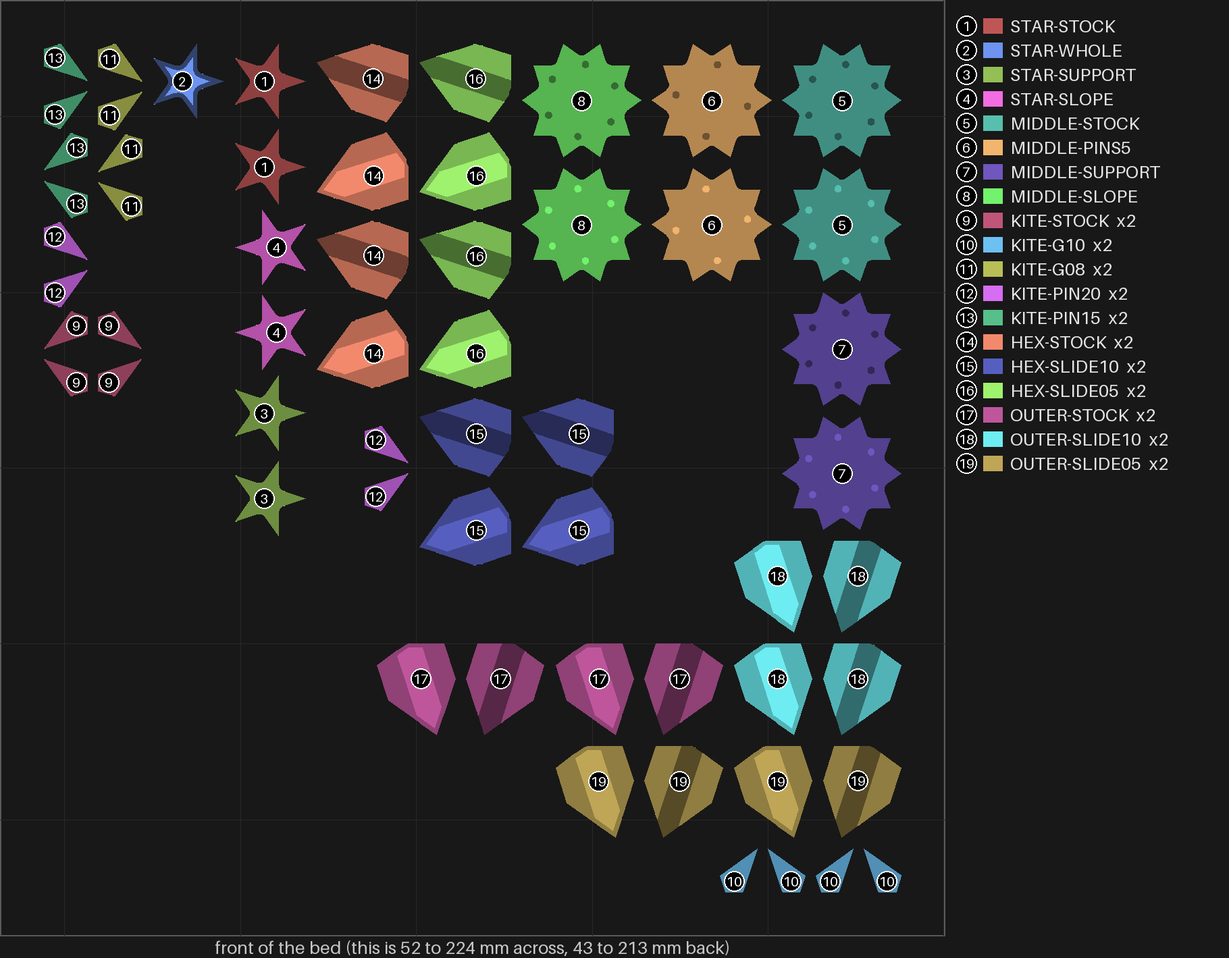
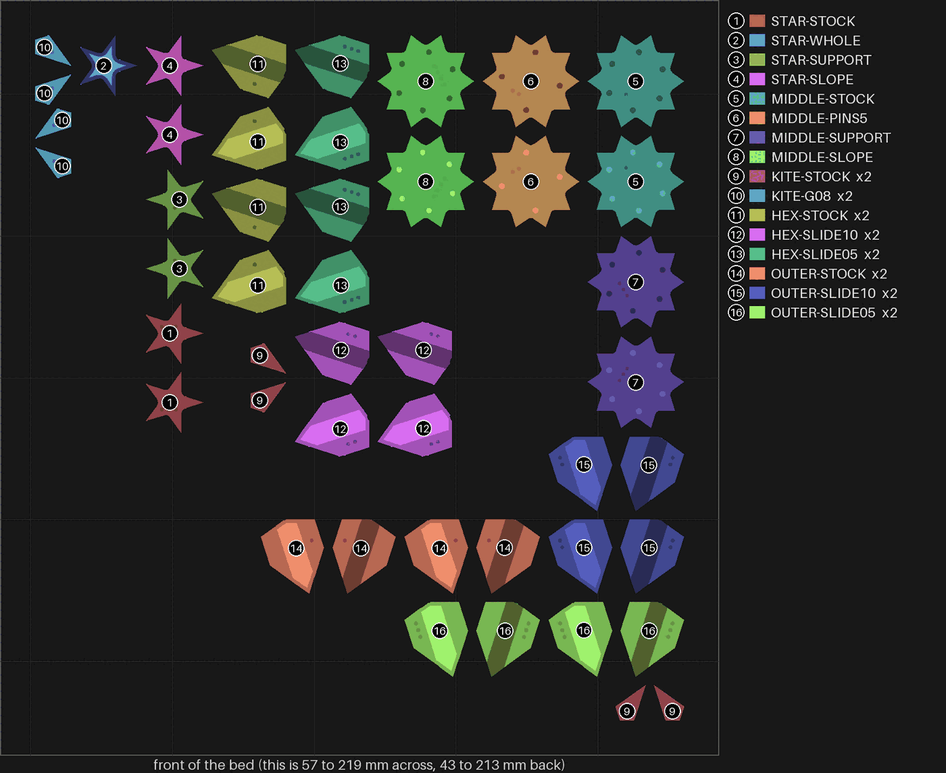
split-10 v4: dots on every cut face, so each version can be told apart
Omar: "i don't want to test anythign unitl we repreint with lavles". Each
cut piece now carries dots on its halves' cut face, the face that hides once
the halves close (bikar #351, D-114). Within a kind each version has its own
count. The gap 0.10 kite and the two narrower pin holes are dropped to the
coaster-pipeline backlog. 24 pieces, about 61 minutes, 15 g. The recipe
change resets the yes (iteration 4), so the reprint waits on Omar's yes and
a color.

Claude-Session: https://claude.ai/code/session_01WeTHrCWsKa9pjDBJpfTez7

diff --git a/docs/design/plates/split-10.md b/docs/design/plates/split-10.md
@@ -2,8 +2,8 @@
 plate: split-10
 print_log: '[[print-logs/split-10|print log]]'
 recipe: split-10.yaml
-iteration: 3
-stage: sent
+iteration: 4
+stage: waiting
 times_printed: 0
 runs: []
 answers: "Which change fixes each loose piece split-07 got wrong: the stars' curved faces, the middle's webbed feel, the loose kites and the dovetail fit?"
@@ -12,7 +12,7 @@ maturity: experiment
 bets: []
 unblocks:
   - "the flange coaster's loose pieces, settled before a whole coaster is printed again"
-minutes: 55
+minutes: 61
 grams: 15
 bed_plates: 1
 risk: ok
@@ -20,21 +20,24 @@ pictures:
   - split-10-media/bed.png
 ---
 
-# split-10 — the flange coaster's loose pieces, each fit bracketed, two of each
+# split-10 — the flange coaster's loose pieces, each fit bracketed, dots on every hidden face
 
-![split-10 on the bed from above: 30 loose pieces in 19 kinds, each half numbered by its kind, with the list of kinds beside the bed — four stars, four ten-point middle pieces, ten kites, six hexagon pieces and six outer pieces](split-10-media/bed.png)
+![split-10 on the bed from above: 24 loose pieces in 16 kinds, each half numbered by its kind, with the list of kinds beside the bed — four stars, four ten-point middle pieces, four kites, six hexagon pieces and six outer pieces](split-10-media/bed.png)
 
 **In short.** split-07's frame came out well, but you found four things wrong with its loose
 pieces: the stars' faces curve at the edges, the middle piece has a "webbed duck feel", the
 "dovetail kites are really loose", and you want to experiment on them. This bed is those pieces
-only, no frame, about 55 minutes. You asked for as much testing as one print can hold
+only, no frame, about 61 minutes. You asked for as much testing as one print can hold
 ("Everything, slope included"), so each kind has a stock piece, exactly as split-07 printed it,
 and each fit is tried on both sides of stock: a little looser and a little tighter. The fit
 pieces come two of each, so a result counts only when both copies agree. The stars and the middle
 also try a new slope under the step each half prints over (bikar #349). You try everything in
 the split-07 frame you already have. Every middle piece now holds its halves with a pin in the
 centre and an even ring of pins near the edge, as you asked, not split-07's three uneven pins.
-The plate is [`split-10.yaml`](split-10.yaml).
+This reprint adds what the first print lacked: dots on each half's cut face, the face that
+hides once the halves close, so every version can be told apart by counting them (you: "i
+don't want to test anythign unitl we repreint with lavles"). The kites are cut to two
+versions to make room. The plate is [`split-10.yaml`](split-10.yaml).
 
 ## What it tries
 
@@ -46,8 +49,7 @@ The plate is [`split-10.yaml`](split-10.yaml).
 | Ten-point middle | MIDDLE-STOCK | **MIDDLE-SUPPORT**: supports under the same step | Whether the webbed feel is the same droop |
 | | | **MIDDLE-SLOPE**: the slope under the step | The same, fixed in the shape |
 | | | **MIDDLE-PINS5**: a centre pin and four round it, where every other middle has a centre pin and six | Whether four pins round the centre hold as well as six |
-| Kite, two of each | KITE-STOCK (0.12 mm gap a face, pin hole 0.25 mm wider than the pin) | **KITE-G10**, **KITE-G08**: gap 0.10 and 0.08 mm | How snug a kite can sit in its hole and still go in |
-| | | **KITE-PIN20**, **KITE-PIN15**: pin hole 0.20 and 0.15 mm wider | How tight the two halves can hold and still close |
+| Kite, two of each | KITE-STOCK (0.12 mm gap a face) | **KITE-G08**: gap 0.08 mm | How snug a kite can sit in its hole and still go in |
 | Hexagon piece, two of each | HEX-STOCK (dovetail 0.15 mm a side) | **HEX-SLIDE10**, **HEX-SLIDE05**: 0.10 and 0.05 mm a side | How tight the dovetail can be and still slide on |
 | Outer piece, two of each | OUTER-STOCK (dovetail 0.15 mm a side) | **OUTER-SLIDE10**, **OUTER-SLIDE05**: 0.10 and 0.05 mm a side | The same, on the other piece that has one |
 
@@ -63,11 +65,20 @@ middle are the only pieces that try it.
 **"Dovetail kites".** The kites are joined by a pin, and the hexagon and outer pieces by the
 dovetail. Both are on this bed, so the answers below settle which you meant.
 
-**Telling the pieces apart.** No piece carries a label: both faces of a cut piece show in use,
-and an id may only go on a face that hides (D-114). In the picture above every half carries its
-kind's number, and the list beside the bed gives each number's name and how many copies there
-are. Take them off the bed one kind at a time, and keep each kind in its own pile or bag with
-its name.
+**Telling the pieces apart.** Open each piece's halves and count the raised dots on the cut
+face. That face hides once the halves close, so the dots never show in use (D-114). Within a
+kind, each version has its own count:
+
+| Kind | No dots | 1 dot | 2 dots | 3 dots | 4 dots |
+|---|---|---|---|---|---|
+| Star | STAR-WHOLE (one piece, no cut face) | STAR-SUPPORT | STAR-SLOPE | STAR-STOCK | |
+| Middle | | MIDDLE-STOCK | MIDDLE-PINS5 | MIDDLE-SUPPORT | MIDDLE-SLOPE |
+| Kite | KITE-STOCK | KITE-G08 | | | |
+| Hexagon | | HEX-STOCK | HEX-SLIDE10 | HEX-SLIDE05 | |
+| Outer | | OUTER-STOCK | OUTER-SLIDE10 | OUTER-SLIDE05 | |
+
+The kinds differ in shape, so the count only has to tell versions of one kind apart. The
+picture above numbers every half by its kind as well.
 
 Every piece is split-07's in everything that touches the frame: size, pin rings, the 0.2 mm room,
 setting 8 (infill and wall overlap 55%). Only the one setting named above changes.
@@ -79,19 +90,19 @@ setting 8 (infill and wall overlap 55%). Only the one setting named above change
 | STAR-STOCK, STAR-WHOLE, STAR-SUPPORT, STAR-SLOPE | **Do:** Close each cut star's two halves, then lay the four stars face up side by side and look at each from the side, along a point. **Look for:** Which star's face is flat out to its points, with no curve at the edges? | STAR-SLOPE or STAR-SUPPORT flattest: each puts something under the step that sagged. STAR-WHOLE shows whether the cut itself made the curve. | Slope best: stars print with the slope, nothing to pick off. Support best and slope not: stars print with supports, and the slope gets another look. Whole best: the cut caused it, and stars print whole. All four curve: the cause is something else; say what you see in the notes. |
 | MIDDLE-STOCK, MIDDLE-SUPPORT, MIDDLE-SLOPE | **Do:** Close each middle piece's halves and run a finger round its edge, then set each in the split-07 frame's middle hole. **Look for:** Does MIDDLE-SLOPE or MIDDLE-SUPPORT lose the webbed feel MIDDLE-STOCK has? Say in the notes what "webbed duck feel" means. | MIDDLE-SLOPE and MIDDLE-SUPPORT smoother at the edge, if the webbed feel is the same sag as the stars'. | Slope fixes it: the middle prints with the slope. Only support fixes it: the middle prints with supports. Neither: the feel is something else, and your note says what to change. |
 | MIDDLE-STOCK, MIDDLE-PINS5 | **Do:** Close each of the two middle pieces' halves on their pins, then pull them apart and twist them. **Look for:** Do both close flat and hold without rocking? MIDDLE-STOCK has a centre pin and six round it, MIDDLE-PINS5 a centre pin and four. | Both close and hold: each pin keeps at least the room the rule asks for to the edge, and the ring is even, so no side is left without a pin as split-07's three uneven pins left it. | Both hold: middles take four round the centre, fewer holes to print. Only six holds: middles take six. Neither holds: the pins need another fit, and your note says which way. |
-| KITE-STOCK, KITE-G10, KITE-G08 | **Do:** Put each of the six kites in a kite hole of the split-07 frame, close the frame and shake it gently. **Look for:** Which kites go in without forcing and do not rattle? Both copies should agree. | KITE-G10 snug and still easy in; KITE-G08 snug but may need a push. | 0.10 snug: kites go to gap 0.10. Only 0.08 snug: kites go to gap 0.08. 0.08 still rattles: the next plate tries below 0.08. 0.10 already binds: kites stay at 0.12, and the looseness is in the pin. |
-| KITE-STOCK, KITE-PIN20, KITE-PIN15 | **Do:** Close each kite's two halves on its pin, then pull them apart. **Look for:** Which kites' halves close fully and hold together? Both copies should agree. | KITE-PIN20 holds better than stock and closes easily; KITE-PIN15 holds best but may not close all the way. | 0.20 holds: pin holes go to 0.20 wider. Only 0.15 holds: they go to 0.15. 0.15 will not close: no tighter than 0.20. None hold: the halves need another way to hold. |
+| KITE-STOCK (no dots), KITE-G08 (1 dot) | **Do:** Put each of the four kites in a kite hole of the split-07 frame, close the frame and shake it gently. **Look for:** Which kites go in without forcing and do not rattle? Both copies should agree. | KITE-G08 snug but may need a push; KITE-STOCK loose, as split-07's were. | 0.08 snug and goes in: kites go to gap 0.08. 0.08 still rattles: the next plate tries below 0.08. 0.08 binds: the next plate tries between 0.08 and 0.12. |
 | HEX-STOCK, HEX-SLIDE10, HEX-SLIDE05, OUTER-STOCK, OUTER-SLIDE10, OUTER-SLIDE05 | **Do:** Slide each piece's two halves together on their dovetail, then try to wiggle them apart. **Look for:** Which slide on without forcing and hold without play? Both copies should agree. | The 0.10 mm ones hold tighter and still slide on: sld-1's rails slid and held at 0.10, 0.15 and 0.20. The 0.05 mm ones may jam. | 0.10 best: dovetails go to 0.10 a side. 0.05 slides and holds best: they go to 0.05. Even 0.05 has play: the dovetail itself needs to change. 0.10 already jams: they stay at 0.15. |
 
 ## Pictures
 
-The bed, from above, as the slice lays it out: one number and color per kind, the number on
-every half, and the list of kinds beside it. Drawn from the sliced plate by
+The bed, from above, as the reprint's slice lays it out: one number and color per kind, the
+number on every half, and the list of kinds beside it. The small round marks on the halves are
+the pins, pin holes and dots on each cut face. Drawn from the sliced plate by
 `tools/print_review.py bed --zoom --key`, at the top of this page.
 
 ## Cost and risk
 
-**About 55 minutes and 15 g of PLA** (the slicer's estimate), one bed, no prime tower, one color.
+**About 61 minutes and 15 g of PLA** (the slicer's estimate), one bed, no prime tower, one color.
 
 **Risk: ok.** Small flat pieces. The two support pieces carry two thin layers of support to pick
 off. The slice check read the supports back on those two pieces only.
@@ -119,3 +130,4 @@ Every yes or hold Omar gives this plate, one row each, oldest first (D-096). A t
 | 2026-10-27 | changed: on Omar's "does this maximize the testing we can do to reduce prints?" and his pick, "Everything, slope included": each fit bracketed both ways, two of each fit piece, a sloped star and middle (bikar #349); 29 pieces, about 54 minutes | this page, [`split-10.yaml`](split-10.yaml) |
 | 2026-10-27 | changed: on Omar's "the middle peice had 3 asymetric pins ... should have been 1 in middel and 4 or 6 radially around the middle near the edges with enough room": every middle takes a centre pin and six round it, and MIDDLE-PINS5 a centre pin and four (bikar #350); 30 pieces, about 55 minutes | this page, [`split-10.yaml`](split-10.yaml) |
 | 2026-10-27 | sent — by `bambu print send`; spends the approval of 2026-10-27, iteration 3 @ d67cb942f8 in #00AE42 | this page |
+| 2026-10-27 | changed: on Omar's "i don't want to test anythign unitl we repreint with lavles": dots on every cut face (bikar #351), counted per version; KITE-G10, KITE-PIN20 and KITE-PIN15 dropped to the loose-pieces backlog; 24 pieces, about 61 minutes. The first print stays unjudged | this page, [`split-10.yaml`](split-10.yaml) |

diff --git a/docs/design/plates/README.md b/docs/design/plates/README.md
@@ -26,33 +26,34 @@ Written by `python3 .claude/gates/plates_gate.py --write` from the plate pages a
 | 4 | [theme-iznik-tile-10205](theme-iznik-tile-10205.md) | waiting | 1 | 0.3 | 3.92 | ok | Iznik tile, one of its 4 plates: do its Middle ×1, Star ×10 come out as the theme draws them, in PLA Basic Maroon Red (10205)? |
 | 5 | [theme-night-sky-13402](theme-night-sky-13402.md) | waiting | 1 | 0.3 | 3.92 | ok | Night sky, one of its 4 plates: do its Middle ×1, Star ×10 come out as the theme draws them, in PLA Sparkle Classic Gold Sparkle (13402)? |
 | 6 | [theme-terracotta-souk-10401](theme-terracotta-souk-10401.md) | waiting | 1 | 0.3 | 3.92 | ok | Terracotta souk, one of its 4 plates: do its Middle ×1, Star ×10 come out as the theme draws them, in PLA Basic Gold (10401)? |
-| 7 | [theme-iznik-tile-10604](theme-iznik-tile-10604.md) | waiting | 1 | 0.3 | 3.42 | ok | Iznik tile, one of its 4 plates: do its Hex ×10 come out as the theme draws them, in PLA Basic Cobalt Blue (10604)? |
-| 8 | [theme-terracotta-souk-11401](theme-terracotta-souk-11401.md) | waiting | 1 | 0.3 | 3.39 | ok | Terracotta souk, one of its 4 plates: do its Outer ×10 come out as the theme draws them, in PLA Matte Desert Tan (11401)? |
-| 9 | [split-01](split-01.md) | waiting | 6 | 1.8 | 3.36 | watch | Does a split gBV coaster close over its loose pieces and hold them by a lip on each face, with the pieces dropped in at a loose gap and the halves lined up by studs? |
-| 10 | [theme-iznik-tile-10605](theme-iznik-tile-10605.md) | waiting | 1 | 0.3 | 2.87 | ok | Iznik tile, one of its 4 plates: do its Kite ×10, Outer ×10 come out as the theme draws them, in PLA Basic Turquoise (10605)? |
-| 11 | [theme-terracotta-souk-11203](theme-terracotta-souk-11203.md) | waiting | 1 | 0.4 | 2.84 | ok | Terracotta souk, one of its 4 plates: do its Kite ×10, Hex ×10 come out as the theme draws them, in PLA Matte Terracotta (11203)? |
-| 12 | [swatch-10204](swatch-10204.md) | waiting | 1 | 0.4 | 2.82 | ok | What does PLA Basic Hot Pink (10204) really look like printed: its top, its sheen and its bed face, on a chip and on our own straps? |
-| 13 | [swatch-10501](swatch-10501.md) | waiting | 1 | 0.4 | 2.82 | ok | What does PLA Basic Bambu Green (10501) really look like printed: its top, its sheen and its bed face, on a chip and on our own straps? |
-| 14 | [swatch-10101](swatch-10101.md) | waiting | 1 | 0.4 | 2.82 | ok | What does PLA Basic Black (10101) really look like printed: its top, its sheen and its bed face, on a chip and on our own straps? |
-| 15 | [swatch-13903](swatch-13903.md) | waiting | 1 | 0.4 | 2.68 | ok | What does PLA Silk Neon City (13903) really look like printed: its top, its sheen and its bed face, on a chip and on our own straps? |
-| 16 | [sheets-01](sheets-01.md) | waiting | 6 | 2.3 | 2.65 | ok | Do the 0.4 mm steps on today's coaster edges show in the hand, and which top (round 1 or the full dome) looks right? |
-| 17 | [minis-06](minis-06.md) | waiting | 8 | 3.8 | 2.11 | ok | How thin can the dovetail band go, and does the new slot fix minis-04's tight pegs? |
-| 18 | [theme-night-sky-11602](theme-night-sky-11602.md) | waiting | 1 | 0.5 | 2.04 | ok | Night sky, one of its 4 plates: do its Hex ×10, Outer ×10 come out as the theme draws them, in PLA Matte Dark Blue (11602)? |
-| 19 | [minis-05](minis-05.md) | waiting | 10 | 5.8 | 1.72 | watch | Which thin join holds a pair together best, the butterfly key or the built-in tab? |
-| 20 | [split-09](split-09.md) | waiting | 4 | 2.6 | 1.51 | ok | Do split-07's two coaster halves, printed two of each to a bed with no loose pieces, come out as clean as they did on split-07, so this layout can be the production plate? |
-| 21 | [theme-midnight-blue-13903](theme-midnight-blue-13903.md) | waiting | 1 | 0.7 | 1.39 | ok | Midnight blue, one of its 2 plates: do its Middle ×1, Kite ×10, Hex ×10, Star ×10, Outer ×10 come out as the theme draws them, in PLA Silk Neon City (13903)? |
-| 22 | [sheets-02](sheets-02.md) | waiting | 3 | 2.7 | 1.11 | ok | Should star points stay sharp or be softened, and by how much? |
-| 23 | [sheets-03](sheets-03.md) | waiting | 3 | 2.7 | 1.11 | ok | How much soft weld at the crossings looks right: none, light or strong? |
-| 24 | [theme-iznik-tile-10100](theme-iznik-tile-10100.md) | waiting | 1 | 1.1 | 0.90 | ok | Iznik tile, one of its 4 plates: does its frame ×1 come out as the theme draws it, in PLA Basic Jade White (10100)? |
-| 25 | [theme-midnight-blue-10101](theme-midnight-blue-10101.md) | waiting | 1 | 1.1 | 0.90 | ok | Midnight blue, one of its 2 plates: does its frame ×1 come out as the theme draws it, in PLA Basic Black (10101)? |
-| 26 | [theme-terracotta-souk-10101](theme-terracotta-souk-10101.md) | waiting | 1 | 1.1 | 0.90 | ok | Terracotta souk, one of its 4 plates: does its frame ×1 come out as the theme draws it, in PLA Basic Black (10101)? |
-| 27 | [theme-night-sky-13101](theme-night-sky-13101.md) | waiting | 1 | 1.1 | 0.89 | ok | Night sky, one of its 4 plates: does its frame ×1 come out as the theme draws it, in PLA Sparkle Onyx Black Sparkle (13101)? |
+| 7 | [split-10](split-10.md) | waiting | 4 | 1.2 | 3.43 | ok | Which change fixes each loose piece split-07 got wrong: the stars' curved faces, the middle's webbed feel, the loose kites and the dovetail fit? |
+| 8 | [theme-iznik-tile-10604](theme-iznik-tile-10604.md) | waiting | 1 | 0.3 | 3.42 | ok | Iznik tile, one of its 4 plates: do its Hex ×10 come out as the theme draws them, in PLA Basic Cobalt Blue (10604)? |
+| 9 | [theme-terracotta-souk-11401](theme-terracotta-souk-11401.md) | waiting | 1 | 0.3 | 3.39 | ok | Terracotta souk, one of its 4 plates: do its Outer ×10 come out as the theme draws them, in PLA Matte Desert Tan (11401)? |
+| 10 | [split-01](split-01.md) | waiting | 6 | 1.8 | 3.36 | watch | Does a split gBV coaster close over its loose pieces and hold them by a lip on each face, with the pieces dropped in at a loose gap and the halves lined up by studs? |
+| 11 | [theme-iznik-tile-10605](theme-iznik-tile-10605.md) | waiting | 1 | 0.3 | 2.87 | ok | Iznik tile, one of its 4 plates: do its Kite ×10, Outer ×10 come out as the theme draws them, in PLA Basic Turquoise (10605)? |
+| 12 | [theme-terracotta-souk-11203](theme-terracotta-souk-11203.md) | waiting | 1 | 0.4 | 2.84 | ok | Terracotta souk, one of its 4 plates: do its Kite ×10, Hex ×10 come out as the theme draws them, in PLA Matte Terracotta (11203)? |
+| 13 | [swatch-10204](swatch-10204.md) | waiting | 1 | 0.4 | 2.82 | ok | What does PLA Basic Hot Pink (10204) really look like printed: its top, its sheen and its bed face, on a chip and on our own straps? |
+| 14 | [swatch-10501](swatch-10501.md) | waiting | 1 | 0.4 | 2.82 | ok | What does PLA Basic Bambu Green (10501) really look like printed: its top, its sheen and its bed face, on a chip and on our own straps? |
+| 15 | [swatch-10101](swatch-10101.md) | waiting | 1 | 0.4 | 2.82 | ok | What does PLA Basic Black (10101) really look like printed: its top, its sheen and its bed face, on a chip and on our own straps? |
+| 16 | [swatch-13903](swatch-13903.md) | waiting | 1 | 0.4 | 2.68 | ok | What does PLA Silk Neon City (13903) really look like printed: its top, its sheen and its bed face, on a chip and on our own straps? |
+| 17 | [sheets-01](sheets-01.md) | waiting | 6 | 2.3 | 2.65 | ok | Do the 0.4 mm steps on today's coaster edges show in the hand, and which top (round 1 or the full dome) looks right? |
+| 18 | [minis-06](minis-06.md) | waiting | 8 | 3.8 | 2.11 | ok | How thin can the dovetail band go, and does the new slot fix minis-04's tight pegs? |
+| 19 | [theme-night-sky-11602](theme-night-sky-11602.md) | waiting | 1 | 0.5 | 2.04 | ok | Night sky, one of its 4 plates: do its Hex ×10, Outer ×10 come out as the theme draws them, in PLA Matte Dark Blue (11602)? |
+| 20 | [minis-05](minis-05.md) | waiting | 10 | 5.8 | 1.72 | watch | Which thin join holds a pair together best, the butterfly key or the built-in tab? |
+| 21 | [split-09](split-09.md) | waiting | 4 | 2.6 | 1.51 | ok | Do split-07's two coaster halves, printed two of each to a bed with no loose pieces, come out as clean as they did on split-07, so this layout can be the production plate? |
+| 22 | [theme-midnight-blue-13903](theme-midnight-blue-13903.md) | waiting | 1 | 0.7 | 1.39 | ok | Midnight blue, one of its 2 plates: do its Middle ×1, Kite ×10, Hex ×10, Star ×10, Outer ×10 come out as the theme draws them, in PLA Silk Neon City (13903)? |
+| 23 | [sheets-02](sheets-02.md) | waiting | 3 | 2.7 | 1.11 | ok | Should star points stay sharp or be softened, and by how much? |
+| 24 | [sheets-03](sheets-03.md) | waiting | 3 | 2.7 | 1.11 | ok | How much soft weld at the crossings looks right: none, light or strong? |
+| 25 | [theme-iznik-tile-10100](theme-iznik-tile-10100.md) | waiting | 1 | 1.1 | 0.90 | ok | Iznik tile, one of its 4 plates: does its frame ×1 come out as the theme draws it, in PLA Basic Jade White (10100)? |
+| 26 | [theme-midnight-blue-10101](theme-midnight-blue-10101.md) | waiting | 1 | 1.1 | 0.90 | ok | Midnight blue, one of its 2 plates: does its frame ×1 come out as the theme draws it, in PLA Basic Black (10101)? |
+| 27 | [theme-terracotta-souk-10101](theme-terracotta-souk-10101.md) | waiting | 1 | 1.1 | 0.90 | ok | Terracotta souk, one of its 4 plates: does its frame ×1 come out as the theme draws it, in PLA Basic Black (10101)? |
+| 28 | [theme-night-sky-13101](theme-night-sky-13101.md) | waiting | 1 | 1.1 | 0.89 | ok | Night sky, one of its 4 plates: does its frame ×1 come out as the theme draws it, in PLA Sparkle Onyx Black Sparkle (13101)? |
 
 **Waiting on a build** (no recipe or slice yet, so no hours; highest value first): [pkt-2](pkt-2.md) (value 6), [sheets-05](sheets-05.md) (value 5).
 
 **Held for hardware risk:** none.
 
-**Went to the printer, no record yet:** [minis-01](minis-01.md), [minis-02](minis-02.md), [split-06](split-06.md), [split-07](split-07.md), [split-10](split-10.md).
+**Went to the printer, no record yet:** [minis-01](minis-01.md), [minis-02](minis-02.md), [split-06](split-06.md), [split-07](split-07.md).
 
 **Printed:** [bedface-1](bedface-1.md) ×1, [bedface-2](bedface-2.md) ×1, [bedface-3](bedface-3.md) ×1, [bedface-4](bedface-4.md) ×1, [bedface-5](bedface-5.md) ×1, [minis-03](minis-03.md) ×1, [minis-04](minis-04.md) ×1, [phones-01](phones-01.md) ×1, [phones-02](phones-02.md) ×1, [pkt-1](pkt-1.md) ×1, [sheets-04](sheets-04.md) ×1, [sheets-04b](sheets-04b.md) ×1, [sheets-04c](sheets-04c.md) ×1, [sheets-04g-fit](sheets-04g-fit.md) ×1, [sheets-04g-fit2](sheets-04g-fit2.md) ×1, [sheets-04g](sheets-04g.md) ×1, [sld-1](sld-1.md) ×1, [spl-1](spl-1.md) ×1, [spl-2](spl-2.md) ×1, [split-02](split-02.md) ×1, [split-03](split-03.md) ×0, [split-04](split-04.md) ×1, [split-05](split-05.md) ×1, [split-08](split-08.md) ×1.
 <!-- queue:end -->

diff --git a/docs/tasks/coaster-pipeline/backlog.md b/docs/tasks/coaster-pipeline/backlog.md
@@ -11,31 +11,39 @@ covers settled (P4.3), and the standard-size plate (P5.2) built from the measure
 Split coasters and split pieces are the main goal since 2026-10-06 (Omar: "i want to wrap up
 consturciotn and move back to split coasters and split inflills"), so they come first.
 
-1. **Print split-10, then carry each answer into the flange coaster.** Omar, 2026-10-27, on
-   split-07's loose pieces: the stars' faces curve, the middle has a "webbed duck feel", the
-   "dovetail kites are really loose". [split-10](../../design/plates/split-10.md) puts one piece
-   per setting beside a stock one (supports under the step, a whole star, kite gap 0.11, kite pin
-   hole 0.20, dovetail 0.10). Waits on Omar's yes and color. Its answers set the next whole
-   coaster's params; split-09 (the halves only) is held until then.
+1. **Reprint split-10 with dots, then carry each answer into the flange coaster.** Omar,
+   2026-10-27, on split-07's loose pieces: the stars' faces curve, the middle has a "webbed duck
+   feel", the "dovetail kites are really loose". [split-10](../../design/plates/split-10.md)
+   brackets each fit both ways beside a stock piece. Its first print went out with no labels, and
+   Omar will not judge it until a reprint carries them ("i don't want to test anythign unitl we
+   repreint with lavles"), so iteration 4 puts dots on every cut face. Waits on Omar's yes and
+   color. Its answers set the next whole coaster's params; split-09 (the halves only) is held
+   until then.
 2. **A slope under the flange step, in bikar.** Each cut half prints face down, and the band under
    the frame's lip steps 0.8 mm out over air above the 0.6 mm face; at a star's points it sags and
    the face edge flares (split-07). split-10 tries supports under it, which leave marks to pick
    off. The lasting fix is a 45° slope under the step in the split-flange file, so the overhang
    prints with no support. A bikar change; worth doing whichever way split-10's stars answer,
    unless STAR-WHOLE shows the cut alone caused it.
-3. **The bigger kites print lopsided.** Omar, 2026-10-25, on split-08's pieces: "but the bigger
+3. **The kite fits split-10 dropped.** On Omar's word, split-10's iteration 4 left out
+   KITE-G10 (gap 0.10 mm a face) and KITE-PIN20 and KITE-PIN15 (pin holes 0.20 and 0.15 mm wider
+   than the pin), keeping only stock and gap 0.08. Put them on the next kite plate once split-10
+   says whether 0.08 is snug: G10 brackets the gap from the other side, and the pin holes settle
+   whether loose kites are loose in the hole or between the halves. Found by split-10
+   iteration 4, 2026-10-27.
+4. **The bigger kites print lopsided.** Omar, 2026-10-25, on split-08's pieces: "but the bigger
    kites are still not eymetric". As drawn they are mirror-symmetric, so the difference comes in the
    slice or the print. Needs a photo with the lopsided side marked (split-07's page asks for it),
    then a look at the sliced walls of one bigger kite (`tools/fit_gap.py walls`) against the drawing.
-4. **Turn a finished print into data** — waits on Omar printing minis-01, or a
+5. **Turn a finished print into data** — waits on Omar printing minis-01, or a
    `bambu print capture` showing up. Then follow the `print-model` skill's compare loop:
    record in `docs/prints/<date>-minis-01/`, settle the CAL-CST bets it measures, update the
    counts in §1 of the register below. Record what was measured, not what was
    expected. (P4.3. minis-01's first print left no answer, 3d-models #629.)
-5. **Keep [minis-01](../../design/plates/minis-01.yaml) ready to send.** Re-compose after any coaster
+6. **Keep [minis-01](../../design/plates/minis-01.yaml) ready to send.** Re-compose after any coaster
    change; slice, preflight and filament-sync against the live AMS trays; check each item's
    bikar pin against bikar main. Stops at the send.
-6. **Tooling that blocks this plate** — fix only friction that stops minis-01. General tooling
+7. **Tooling that blocks this plate** — fix only friction that stops minis-01. General tooling
    goes in the [print-infrastructure backlog](../print-infrastructure/backlog.md), new designs
    in the [catalog backlog](../catalog-expansion/backlog.md).
    - **Check the send payload against one Bambu Studio send.** `bed_type`, `md5`, and the tray
@@ -44,7 +52,7 @@ consturciotn and move back to split coasters and split inflills"), so they come 
      printer config on this machine (`bambu setup doctor` says it is missing) and one send from
      Studio while the request topic is read. Until then, plates go out from Bambu Studio.
      Found by the minis-01 run, 2026-09-25.
-7. **Standard-size plate (P5.2)** — only after item 4 settles the CAL-CST numbers (board #6).
+8. **Standard-size plate (P5.2)** — only after item 5 settles the CAL-CST numbers (board #6).
 
 ## Owner-gated
 
